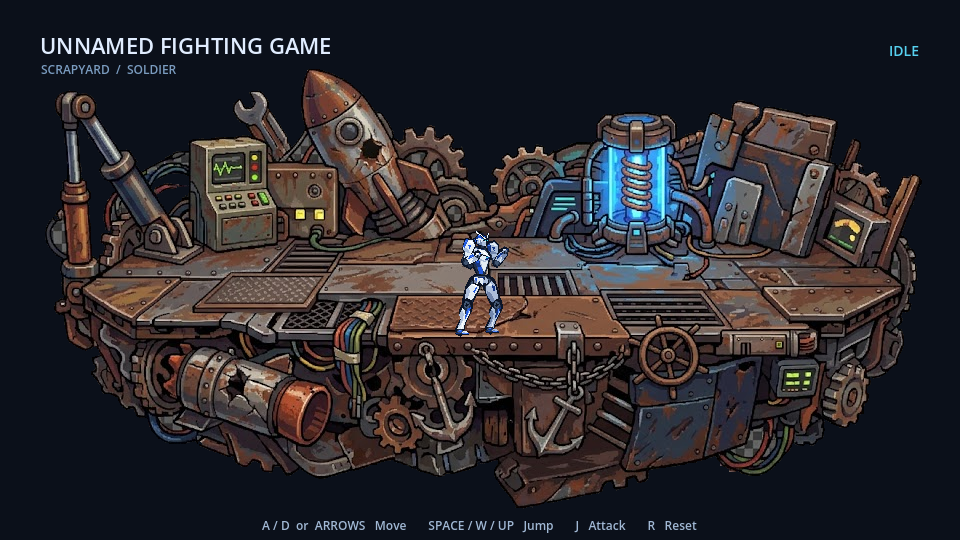
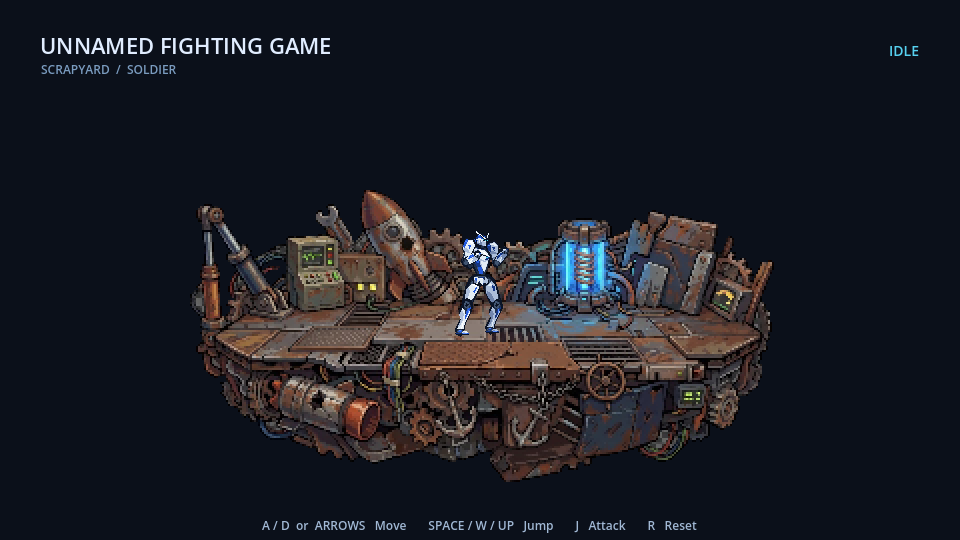
feat: use smaller pixelated Stage 1 with a single flat walking surface

diff --git a/game/tests/MovementSmoke.cs b/game/tests/MovementSmoke.cs
@@ -91,8 +91,8 @@ public partial class MovementSmoke : Node
     private async Task VerifyStage()
     {
         var sprite=_stage.GetNode<Sprite2D>("Artwork");
-        Check(sprite.Texture.GetWidth()==888&&sprite.Texture.GetHeight()==448&&sprite.Scale==Vector2.One,
-            "Stage retains native cropped resolution with no sprite scaling");
+        Check(sprite.Texture.GetWidth()==600&&sprite.Texture.GetHeight()==300&&sprite.Scale==Vector2.One,
+            "Stage uses the smaller 600x300 pixel export");
         Check(_stage.TextureFilter==CanvasItem.TextureFilterEnum.Nearest&&_stage.Position==_stage.Position.Round(),
             "Stage uses nearest sampling and integer placement");
         Check(ProjectSettings.GetSetting("display/window/stretch/scale_mode").AsString()=="integer",
@@ -102,7 +102,12 @@ public partial class MovementSmoke : Node
         var entry=report.RootElement.GetProperty("files").EnumerateArray().Single(e=>e.GetProperty("file").GetString()=="stages/stage_1.png");
         Check(Convert.ToHexString(SHA256.HashData(image.GetData())).ToLowerInvariant()==entry.GetProperty("processedRgbaSha256").GetString(),
             "Stage Godot pixels match Pixelloid exactly");
-        Check(image.GetPixel(0,0).A==0&&image.GetPixel(887,447).A==0,"Checkerboard outside the stage is transparent");
+        Check(image.GetPixel(0,0).A==0&&image.GetPixel(599,299).A==0,"Checkerboard outside the stage is transparent");
+        bool blocks=true;
+        for(int y=0;y<300;y+=2)for(int x=0;x<600;x+=2)
+            blocks &= image.GetPixel(x,y)==image.GetPixel(x+1,y)&&image.GetPixel(x,y)==image.GetPixel(x,y+1)&&image.GetPixel(x,y)==image.GetPixel(x+1,y+1);
+        Check(blocks,"Stage has uniform visible 2x2 pixel blocks");
+        Check(_stage.Surface.Length==2&&_stage.Surface[0].Y==_stage.Surface[1].Y,"One straight horizontal walking surface");
         var polygon=_stage.GetNode<CollisionPolygon2D>("DeckCollision").Polygon;
         Check(polygon.Take(_stage.Surface.Length).SequenceEqual(_stage.Surface),"Collision follows the shared deck lip trace");
         Godot.Collections.Dictionary Ray(float x)
@@ -112,12 +117,12 @@ public partial class MovementSmoke : Node
             query.Exclude=new Godot.Collections.Array<Rid>{_player.GetRid()};
             return _stage.GetWorld2D().DirectSpaceState.IntersectRay(query);
         }
-        for(int i=1;i<_stage.Surface.Length;i++)
+        for(int i=0;i<=10;i++)
         {
-            float x=_stage.GlobalPosition.X+(_stage.Surface[i-1].X+_stage.Surface[i].X)*.5f;
+            float x=Mathf.Lerp(_stage.Left+1,_stage.Right-1,i/10f);
             var hit=Ray(x);
             Check(hit.Count>0&&Math.Abs(hit["position"].AsVector2().Y-_stage.SurfaceY(x))<.1,
-                $"Deck section {i}: physics matches visible lip coordinates");
+                $"Deck sample {i}: physics stays at the flat walking height");
         }
         Check(Ray(_stage.Left+.5f).Count>0&&Ray(_stage.Left-.5f).Count==0,"Left collision ends exactly at the traced deck edge");
         Check(Ray(_stage.Right-.5f).Count>0&&Ray(_stage.Right+.5f).Count==0,"Right collision ends exactly at the traced deck edge");
@@ -127,7 +132,7 @@ public partial class MovementSmoke : Node
             float edge=direction<0?_stage.Left:_stage.Right;
             float inside=edge-direction*24;
             _player.Position=new Vector2(inside,_stage.SurfaceY(inside)-8);await Frames(15);
-            Check(_player.IsOnFloor(),$"{direction}: sloped deck end supports the Soldier");
+            Check(_player.IsOnFloor(),$"{direction}: flat deck end supports the Soldier");
             string action=direction<0?"move_left":"move_right";
             Input.ActionPress(action);
             for(int i=0;i<25&&_player.IsOnFloor();i++)await Frames(1);

diff --git a/README.md b/README.md
@@ -25,6 +25,7 @@ The [idle rework](game_script/IDLE_REWORK.md) follows the supplied stance GIF's 
 | `art/soldier.pixel.json` | Editable assembled animation with separate layers |
 | `art/fight-effects.pixel.json` | Editable jab smear and impact rings |
 | `art/stages/stage_1.pixel.json` | Editable full-resolution stage pixels |
+| `art/stages/stage_1.pixelized.pixel.json` | Current 300×150 pixelized stage source |
 | `art/stages/stage_1.layout.json` | Shared artwork placement, deck trace and spawn |
 | `art/draw/`, `tools/PixelAuthor/` | Initial drawing definitions and C# tools |
 | `art/exports/` | Code as Pixel Art exports |
@@ -52,9 +53,9 @@ The [jab workflow](game_script/FIGHT_REWORK.md) follows all five attack poses in
 
 ### Main stage
 
-Only **`stage_1.jpg`** supplies the map. Its baked checkerboard was removed with a C# mask, preserving all **272,562 retained foreground pixels** at their original RGB values. The 888×448 crop is displayed at native resolution with lossless import, nearest filtering and integer viewport scaling. Its existing JPEG compression remains; no resizing, palette reduction or generated replacement was applied.
+Only **`stage_1.jpg`** supplies the map. The transparent master is preserved, padded to 900×450 and processed by actual Pixelloid medoid sampling at pixel size 3. The resulting editable **300×150** source is exported at exactly 2×, giving a smaller **600×300 stage with visible 2×2 pixels**. Lossless import, nearest filtering and integer viewport scaling keep the blocks sharp. [Pixelization settings and hashes](art/stages/STAGE_1_PIXELIZATION.json).
 
-The collision follows ten sections of the visible front deck lip, with ledges at game coordinates **x=82** and **x=902**. Props and hanging machinery remain decorative. Artwork and collision share one layout file; normal character-collider overlap determines the last supported position at a ledge. [Stage workflow](game_script/STAGE_1_WORKFLOW.md) · [Pixel verification](art/stages/STAGE_1_VERIFICATION.json).
+The walking surface is one invisible horizontal line across the widest deck section, from **x=214 to x=762 at y=334**. Props and hanging machinery remain decorative. Artwork and collision share one layout file; normal character-collider overlap determines the last supported position at a ledge. Character size, controls, physics and animations are unchanged. [Current stage workflow](game_script/STAGE_1_PIXEL_REWORK.md) · [Pixel verification](art/stages/STAGE_1_VERIFICATION.json).
 
 ![Scrapyard stage in game](art/previews/stage-in-game.png)
 
@@ -90,7 +91,7 @@ godot --headless --path game --editor --import
 godot --headless --path game res://tests/movement_smoke.tscn
 ```
 
-Latest result: **185 checks, zero failures**, covering stage pixel preservation, all ten deck sections, both ledges, walking off the slopes, falling and respawn, plus all existing attack, animation and movement checks. `verify-stage` independently checks original JPEG RGB preservation, unclipped cropping, matching export/Pixelloid/game pixels and unchanged Soldier assets. `verify-fight` also confirms the 384 protected idle/walk/jump part frames. See [verification notes](game_script/REWORK_VERIFICATION.md).
+Latest result: **188 checks, zero failures**, covering uniform 2×2 stage pixels, flat support across the full deck, both ledges, falling and respawn, plus existing attack, animation and movement checks. `verify-stage` checks actual Pixelloid reduction, exact nearest-neighbor export, matching export/Pixelloid/game pixels and unchanged Soldier assets/controller. See [verification notes](game_script/REWORK_VERIFICATION.md).
 
 Create `artifacts/` to capture a pose:
 

diff --git a/game_script/STAGE_1_PIXEL_REWORK.md b/game_script/STAGE_1_PIXEL_REWORK.md
@@ -11,3 +11,10 @@ Use only stage_1.jpg. Make the stage approximately 600 pixels wide with visible 
 3. Record the non-identity Pixelloid conversion and verify the final export before Godot import; commit the gate.
 4. Center the sprite at x=480 and align the deck's widest horizontal section (reference row 294) with y=334. Use two endpoints and a 14-pixel-deep rectangular collider. Keep spawn at (480,334); no visible line or depth movement.
 5. Verify uniform pixel blocks, full-width flat support, both ledges, falling, respawn and existing movement/attack behavior. Compare character files against the starting state. Inspect the scene, record results, commit, push and launch.
+
+## Results
+
+- Actual Pixelloid pixel size 3, medoid sampling, produces 300×150 logical pixels; the 600×300 export consists entirely of exact 2×2 blocks. Both editable sources validate.
+- Sprite placement (180,186); flat deck endpoints (214,334) and (762,334). The existing stage runtime consumes the two-point layout without character or controller changes.
+- Final Pixelloid export and Godot texture hashes match. Native master and all character assets/controller remain unchanged from `440eef7`; the local walk-cadence edit remains unstaged and unchanged.
+- Build passed with zero warnings/errors. Godot passed **188 checks**, including eleven flat-floor samples and both fall-off edges. The independent stage verifier passed. Inspected the normal-resolution game capture.

diff --git a/game_script/REWORK_VERIFICATION.md b/game_script/REWORK_VERIFICATION.md
@@ -1,5 +1,9 @@
 # Rework verification
 
+## Smaller pixelated Stage 1 — 21 September 2026
+
+Actual Pixelloid medoid sampling at pixel size 3 produces a 300×150 source, exported with exact 2×2 blocks to 600×300. Collision is flat at y=334 from x=214 to x=762. Character assets, scene and controller are unchanged; the local walk-cadence edit is preserved. C# build passed without warnings/errors, the independent stage verifier passed, and **188 Godot checks passed**. Inspected the normal-resolution [game preview](../art/previews/stage-in-game.png). [Workflow](STAGE_1_PIXEL_REWORK.md) and [non-identity pixelization report](../art/stages/STAGE_1_PIXELIZATION.json).
+
 ## Stage 1 — 21 September 2026
 
 Only `stage_1.jpg` was used. Its transparent 888×448 export preserves **272,562 original RGB pixels**, without resampling or cropping the silhouette. Code as Pixel Art validation and Pixelloid processing passed before Godot import. The ten-section deck collision follows the artwork to x=82 and x=902; tests verify both slopes, support immediately inside each ledge, no collision outside, falling and respawn. All Soldier assets remain unchanged. C# build: zero warnings/errors. Godot: **185 checks, zero failures**. [Workflow](STAGE_1_WORKFLOW.md), [verification report](../art/stages/STAGE_1_VERIFICATION.json), [in-game preview](../art/previews/stage-in-game.png).

diff --git a/game_script/STAGE_1_WORKFLOW.md b/game_script/STAGE_1_WORKFLOW.md
@@ -1,5 +1,7 @@
 # Stage 1 — scrapyard platform
 
+This records the original import. The [pixel rework](STAGE_1_PIXEL_REWORK.md) supersedes native-resolution display and sloped collision with a smaller 2× pixel export and one flat surface.
+
 ## Requirements
 
 - Use only `reference_pics/stage_1.jpg` as the main platform. No other stage references are used or changed.
